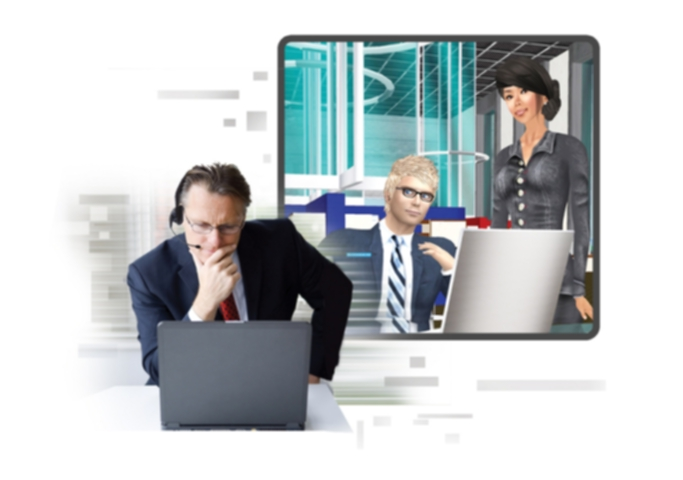
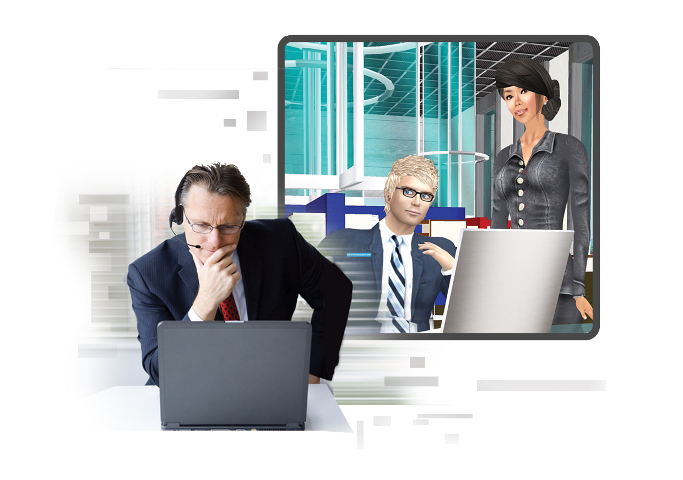
Arrows redesigned

diff --git a/wp-content/themes/languagelab/assets/layout.css b/wp-content/themes/languagelab/assets/layout.css
@@ -117,7 +117,7 @@ header#branding {
   left: 0;
 }
 .home #primary .col-1 .arrow-left {
-  top: -1.26em;
+  top: -1.15em;
   left: 96.3%;
 }
 .home #primary #text {
@@ -129,7 +129,7 @@ header#branding {
 .home #background-image {
   position: absolute;
   top: 18.7em; /* Aligning to grid */
-  left: 48%;
+  left: 47%;
 }
 .home #background-image img {
   height: 30em;
@@ -156,6 +156,7 @@ header#branding {
   vertical-align: top;
 }
 
+
 .home #primary #more {  
   position: relative;
   top: -.3em; /* Align back to grid */
@@ -178,6 +179,7 @@ header#branding {
   top: 1.4em;
   left: 98.3%;
 }
+
 
 
 /* Footer

diff --git a/wp-content/themes/languagelab/front-page.php b/wp-content/themes/languagelab/front-page.php
@@ -20,14 +20,14 @@ get_header(); ?>
         <div class="col col-1">
           <!--<div class="triangle triangle-left"></div>-->
           <div class="arrow arrow-right">
-		        <img src="<?php bloginfo( 'stylesheet_directory' ); ?>/assets/arrow-right.png">
+		        <img src="<?php bloginfo( 'stylesheet_directory' ); ?>/assets/arrow-right-red.png">
 		      </div>
           <div id="text">
             <?php the_post(); ?>			
             <?php the_content(); ?>
           </div>
           <div class="arrow arrow-left">
-		        <img src="<?php bloginfo( 'stylesheet_directory' ); ?>/assets/arrow-left.png">
+		        <img src="<?php bloginfo( 'stylesheet_directory' ); ?>/assets/arrow-left-red.png">
 		      </div>
 			  </div>
 			  
@@ -89,7 +89,7 @@ get_header(); ?>
 			  
 			  <div id="more" class="block">
 			    <div class="arrow arrow-right">
-		        <img src="<?php bloginfo( 'stylesheet_directory' ); ?>/assets/arrow-right.png">
+		        <img src="<?php bloginfo( 'stylesheet_directory' ); ?>/assets/arrow-right-blue.png">
 		      </div>
 			    <div id="coming-soon" class="col">
 			      <h2>Coming sooon</h2>
@@ -104,7 +104,7 @@ get_header(); ?>
 			      <?php get_sidebar(); ?>
 			    </div>
 			    <div class="arrow arrow-left">
-		        <img src="<?php bloginfo( 'stylesheet_directory' ); ?>/assets/arrow-left.png">
+		        <img src="<?php bloginfo( 'stylesheet_directory' ); ?>/assets/arrow-left-blue.png">
 		      </div>
 			 </div>
 			 

diff --git a/wp-content/themes/languagelab/header.php b/wp-content/themes/languagelab/header.php
@@ -103,7 +103,7 @@
 
       <div id="menu" class="block">
         <div class="arrow arrow-right">
-	        <img src="<?php bloginfo( 'stylesheet_directory' ); ?>/assets/arrow-right.png">
+	        <img src="<?php bloginfo( 'stylesheet_directory' ); ?>/assets/arrow-right-green.png">
 	      </div>
         <nav id="access" role="navigation">
 				  <h3 class="assistive-text"><?php _e( 'Main menu', 'twentyeleven' ); ?></h3>
@@ -114,7 +114,7 @@
 				  <?php wp_nav_menu( array( 'theme_location' => 'primary' ) ); ?>
 			  </nav><!-- #access -->
 			  <div class="arrow arrow-left">
-	        <img src="<?php bloginfo( 'stylesheet_directory' ); ?>/assets/arrow-left.png">
+	        <img src="<?php bloginfo( 'stylesheet_directory' ); ?>/assets/arrow-left-green.png">
 	      </div>
 			</div>
 			
